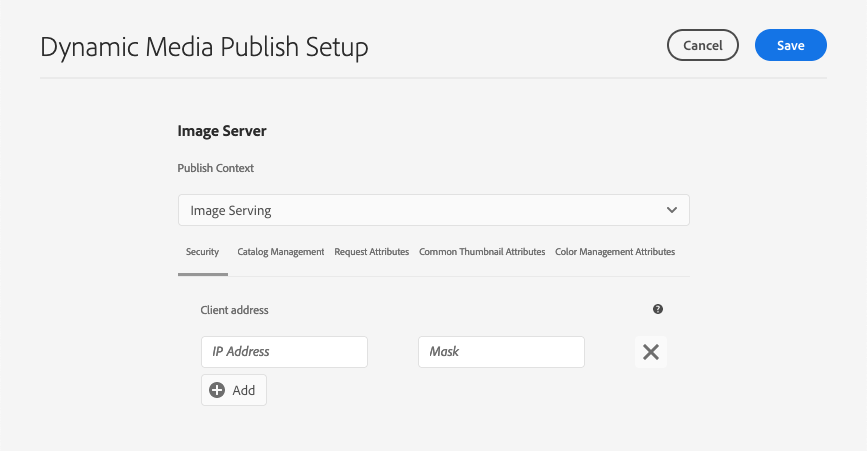
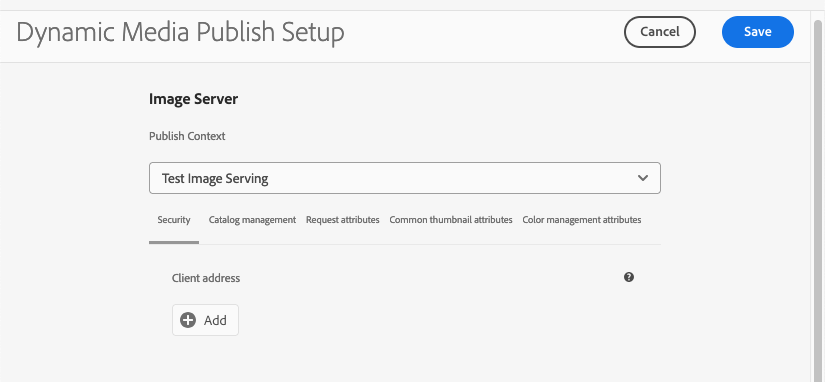
CQDOC-22241

diff --git a/help/assets/dm-publish-settings.md b/help/assets/dm-publish-settings.md
@@ -13,13 +13,13 @@ solution: Experience Manager, Experience Manager Assets
 ---
 # Configure Dynamic Media Publish Setup for Image Server
 
-Configuring Dynamic Media Publish Setup is available only if:
+Configuring Dynamic Media Publish Setup options are available only if the following are true:
 
 * You are running Dynamic Media in Scene7 mode. See [Enable Dynamic Media in Scene7 mode](/help/assets/config-dms7.md#enabling-dynamic-media-in-scene-mode).
-* You have an *existing* **[!UICONTROL Dynamic Media Configuration]** (in **[!UICONTROL Cloud Services]**) in Adobe Experience Manager 6.5.11 or above. See [Create a Dynamic Media Configuration in Cloud Services](/help/assets/config-dms7.md#configuring-dynamic-media-cloud-services).
+* You have an *existing* **[!UICONTROL Dynamic Media Configuration]** (in **[!UICONTROL Cloud Services]**) in Adobe Experience Manager 6.5.11 or higher. See [Create a Dynamic Media Configuration in Cloud Services](/help/assets/config-dms7.md#configuring-dynamic-media-cloud-services).
 * You are an Experience Manager system administrator with administrator privileges.
 
-Dynamic Media Publish Setup is intended for use by experienced web site developers and programmers. Adobe Dynamic Media recommends that users who change these publish settings be familiar with Adobe Dynamic Media, HTTP protocol standards and conventions, and basic imaging technology.
+Experienced website developers and programmers are intended to use Dynamic Media Publish Setup. Adobe Dynamic Media recommends that users who change publish settings be familiar with Adobe Dynamic Media, HTTP protocol standards and conventions, and basic imaging technology.
 
 The Dynamic Media Publish Setup page establishes default settings that determine how assets are delivered from Adobe Dynamic Media servers to web sites or applications. If no setting is specified, the Adobe Dynamic Media server delivers an asset according to a default setting that was configured on the Dynamic Media Publish Setup page.
 
@@ -32,10 +32,16 @@ See also [Optional - Setup and configuration of Dynamic Media - Scene7 mode sett
 **To configure Dynamic Media Publish Setup Image Server:**
 
 1. In Experience Manager Author mode, select the Experience Manager logo to access the global navigation console.
-1. In the left rail, select the Tools icon, then go to **[!UICONTROL Assets]** > **[!UICONTROL Dynamic Media Publish Setup]**.
-1. In the Image Server page, set your Image Server - publish context, and then use the five tabs to configure default publish settings.
+1. In the left rail, click the Tools icon, then go to **[!UICONTROL Assets]** > **[!UICONTROL Dynamic Media Publish Setup]**.
+1. In the Image Server page, from the drop-down list, choose your publish context to establish default settings for delivering images from Image Servers.
 
-   * [Image Server](#image-server)
+| Publish context | Description |
+| --- | --- |
+| Image Serving | Specifies the context for publish settings. |
+| Test Image Serving | Specifies the context for testing publish settings.<br>For new Dynamic Media accounts only, the default **[!UICONTROL Client address]** field is set to `127.0.0.1` automatically.<br>See [Test assets before making them public](#test-assets-before-making-public). |
+
+1. Use the five tabs to configure the default publish context settings.
+
    * [Security](#security-tab) tab
    * [Catalog Management](#catalog-management-tab) tab
    * [Request Attributes](#request-attributes-tab) tab
@@ -45,69 +51,66 @@ See also [Optional - Setup and configuration of Dynamic Media - Scene7 mode sett
    ![Dynamic Media Publish Setup page](/help/assets/assets-dm/dm-publish-setup.png)
    *Dynamic Media Publish Setup page, with the **[!UICONTROL Request Attributes]** tab selected.*<br><br>
 
-1. When you are finished, near the upper-right corner of the page, select **[!UICONTROL Save]**.
+1. When you are finished, near the upper-right corner of the page, click **[!UICONTROL Save]**.
 
-## Image Server {#image-server}
-
-The Image Server page establishes default settings for delivering images from image servers. Settings are available in five categories
-
-| Publish Context | Description |
-| --- | --- |
-| Image Serving | Specifies the context for publish settings. |
-| Test Image Serving | Specifies the context for testing publish settings.<br>For new Dynamic Media accounts only, the default **[!UICONTROL Client address]** field is set to `127.0.0.1` automatically.<br>See [Test assets before making them public](#test-assets-before-making-public). |
-
-### Security tab {#security-tab}
-
-**[!UICONTROL Client address]** - Lets you specify one or more IP addresses or IP address ranges. When specified, requests to this image catalog that originates from a client at an unlisted IP address is rejected. This rule applies both to delivery of images and rendered images.
-
-   ![Security tab](/help/assets/assets-dm/dm-ipallowlist.png)<br>*Security tab showing IP "allow" field.*
-
-### Catalog Management tab {#catalog-management-tab}
-
-**[!UICONTROL Rule set definition file path]** - Specifies the file that contains the rule set definitions for the image catalog.
-
-See also [RuleSetFile](https://experienceleague.adobe.com/docs/dynamic-media-developer-resources/image-serving-api/image-serving-api/attributes/r-rulesetfile.html) parameter in the Dynamic Media Viewers Reference Guide.
+## Security tab {#security-tab}
 
 >[!NOTE]
 >
->If your Dynamic Media Classic account already has a **[!UICONTROL Rule set definition file path]** selected (as set under **[!UICONTROL Setup]** > **[!UICONTROL Application]** > **[!UICONTROL Publish setup]**, under **[!UICONTROL Catalog Management]** group), your Dynamic Media account on Experience Manager fetches the file from Dynamic Media Classic. The file is then stored and made available in this field, when you open the **[!UICONTROL Dynamic Media Publish Setup]** page for the first time.
+>Security settings are not supported for the *Image Serving* publish context.
 
-### Request Attributes tab {#request-attributes-tab}
+When *Test Image Serving* is set as the publish context, you can set the following security setting:
+
+**[!UICONTROL Client address]** - Lets you specify one or more IP addresses or IP address ranges. When specified, requests to this image catalog that originates from a client at an unlisted IP address is rejected. This rule applies both to delivery of images and rendered images.
+
+   ![Security tab](/help/assets/assets-dm/dm-ipallowlist.png)<br>*The security tab showing IP "allow" field.*
+
+## Catalog management tab {#catalog-management-tab}
+
+**[!UICONTROL Rule set definition file path]** - Specifies the file that contains the rule set definitions for the image catalog.
+
+See also the [RuleSetFile](https://experienceleague.adobe.com/en/docs/dynamic-media-developer-resources/image-serving-api/image-serving-api/attributes/r-rulesetfile) parameter in the Dynamic Media Viewers Reference Guide.
+
+>[!NOTE]
+>
+>If your Dynamic Media Classic account has a **[!UICONTROL Rule set definition file path]** selected under **[!UICONTROL Setup]** > **[!UICONTROL Application]** > **[!UICONTROL Publish setup]**, Experience Manager fetches the file. Your Dynamic Media account retrieves the file from Dynamic Media Classic. The file is then stored and made available in this field, when you open the **[!UICONTROL Dynamic Media Publish Setup]** page for the first time.
+
+## Request attributes tab {#request-attributes-tab}
 
 These settings pertain to the default appearance of images.
 
 | Setting | Description |
 | --- | --- |
-| **[!UICONTROL Reply image size limit]** | Required.<br>For new Dynamic Media accounts only, the default size limit is automatically set to Width: `3000` and Height: `3000` for both **[!UICONTROL Image Serving]** and **[!UICONTROL Test Image Serving]**.<br>Specifies the maximum reply image width and height that is returned to the client. The server returns an error if a request causes a reply image whose width, or height, or both, is larger than this setting.<br>See also [MaxPix](https://experienceleague.adobe.com/docs/dynamic-media-developer-resources/image-serving-api/image-serving-api/attributes/r-maxpix.html) parameter in the Dynamic Media Viewers Reference Guide. |
-| **[!UICONTROL Request obfuscation mode]** | Enable if you want base64 encoding applied to valid requests.<br>See also [RequestObfuscation](https://experienceleague.adobe.com/docs/dynamic-media-developer-resources/image-serving-api/image-serving-api/attributes/r-requestobfuscation.html) parameter in the Dynamic Media Viewers Reference Guide. |
-| **[!UICONTROL Request locking mode]** | Enable if you want a simple hash lock included in requests.<br>See also [RequestLock](https://experienceleague.adobe.com/docs/dynamic-media-developer-resources/image-serving-api/image-serving-api/attributes/r-requestlock.html) parameter in the Dynamic Media Viewers Reference Guide. |
+| **[!UICONTROL Reply image size limit]** | Required.<br>For new Dynamic Media accounts only, the default size limits are automatically set to Width: `3000` and Height: `3000` for both **[!UICONTROL Image Serving]** and **[!UICONTROL Test Image Serving]**.<br>Specifies the maximum reply image width and height that is returned to the client. The server returns an error if a request causes a reply image whose width, or height, or both, is larger than this setting.<br>See also the [MaxPix](https://experienceleague.adobe.com/en/docs/dynamic-media-developer-resources/image-serving-api/image-serving-api/attributes/r-maxpix) parameter in the Dynamic Media Viewers Reference Guide. |
+| **[!UICONTROL Request obfuscation mode]** | Enable if you want base64 encoding applied to valid requests.<br>See also the [RequestObfuscation](https://experienceleague.adobe.com/en/docs/dynamic-media-developer-resources/image-serving-api/image-serving-api/attributes/r-requestobfuscation) parameter in the Dynamic Media Viewers Reference Guide. |
+| **[!UICONTROL Request locking mode]** | Enable if you want a simple hash lock included in requests.<br>See also the [RequestLock](https://experienceleague.adobe.com/en/docs/dynamic-media-developer-resources/image-serving-api/image-serving-api/attributes/r-requestlock) parameter in the Dynamic Media Viewers Reference Guide. |
 | **[!UICONTROL Default Request Attributes]** | |
-| **[!UICONTROL Default image file suffix]** | Required.<br>Default data file extension that is appended to the catalog Path and MaskPath field values if the path does not include a file suffix.<br>See also [DefaultExt](https://experienceleague.adobe.com/docs/dynamic-media-developer-resources/image-serving-api/image-serving-api/attributes/r-defaultext.html) parameter in the Dynamic Media Viewers Reference Guide. |
-| **[!UICONTROL Default font face name]** | Specifies which font is used if no font is provided by a text layer request. If specified, it must be a valid font name value in the font map of this image catalog or in the font map of the default catalog.<br>See also [DefaultFont](https://experienceleague.adobe.com/docs/dynamic-media-developer-resources/image-serving-api/image-serving-api/attributes/r-defaultfont.html) parameter in the Dynamic Media Viewers Reference Guide. |
-| **[!UICONTROL Default image]** | Provides a default image to return in response to a request where the requested image is not found.<br>See also [DefaultImage](https://experienceleague.adobe.com/docs/dynamic-media-developer-resources/image-serving-api/image-serving-api/attributes/r-is-cat-defaultimage.html) parameter in the Dynamic Media Viewers Reference Guide.<br>**NOTE**: If your Dynamic Media Classic account already has a **[!UICONTROL Default image]** selected (as set under **[!UICONTROL Setup]** > **[!UICONTROL Application]** > **[!UICONTROL Publish setup]**, under **[!UICONTROL Default Request Attributes]** group), your Dynamic Media account on Experience Manager fetches the file from Dynamic Media Classic. The file is then stored and made available in this field when you open the **[!UICONTROL Dynamic Media Publish Setup]** page for the first time.|
-| **[!UICONTROL Default image mode]** | When the slider box is enabled (slider on the right), the **[!UICONTROL Default image]** replaces each missing layer in the source image with the default image and returns the composite as usual. When the slider box is disabled (slider on the left), the default image replaces the entire composite image, even if the missing image is just one of several layers.<br>See also [DefaultImageMode](https://experienceleague.adobe.com/docs/dynamic-media-developer-resources/image-serving-api/image-serving-api/attributes/r-defaultimagemode.html) parameter in the Dynamic Media Viewers Reference Guide. |
-| **[!UICONTROL Default view size]** | Required.<br>For new Dynamic Media accounts only, the default view size is automatically set to Width: `1280` and Height: `1280` for both **[!UICONTROL Image Serving]** and **[!UICONTROL Test Image Serving]**.<br>The server constrains reply images to be no larger than this width and height, if the request does not specify the view size explicitly using `wid=`, `hei=`, or `scl=`.<br>See also [DefaultPix](https://experienceleague.adobe.com/docs/dynamic-media-developer-resources/image-serving-api/image-serving-api/attributes/r-defaultpix.html) parameter in the Dynamic Media Viewers Reference Guide. |
-| **[!UICONTROL Default thumbnail size]** | Required.<br>Used instead of attribute **[!UICONTROL Default view size]** for thumbnail requests (`req=tmb`). The server constrains reply images to be no larger that this width and height, if a thumbnail request (`req=tmb`) does not specify the size explicitly using `wid=`, `hei=`, or `scl=`.<br>See also [DefaultThumbPix](https://experienceleague.adobe.com/docs/dynamic-media-developer-resources/image-serving-api/image-serving-api/attributes/r-defaultthumbpix.html) parameter in the Dynamic Media Viewers Reference Guide. |
-| **[!UICONTROL Default background color]** | Specifies the RGB value used to fill in any area of a reply image that does not contain actual image data.<br>See also [BkgColor](https://experienceleague.adobe.com/docs/dynamic-media-developer-resources/image-serving-api/image-serving-api/attributes/r-bkgcolor.html) parameter in the Dynamic Media Viewers Reference Guide. |
+| **[!UICONTROL Default image file suffix]** | Required.<br>Default data file extension that is appended to the catalog Path and MaskPath field values if the path does not include a file suffix.<br>See also the [DefaultExt](https://experienceleague.adobe.com/en/docs/dynamic-media-developer-resources/image-serving-api/image-serving-api/attributes/r-defaultext) parameter in the Dynamic Media Viewers Reference Guide. |
+| **[!UICONTROL Default font face name]** | Specifies which font is used if no font is provided by a text layer request. If specified, it must be a valid font name value in this image catalog's font map or the default catalog's font map.<br>See also the [DefaultFont](https://experienceleague.adobe.com/en/docs/dynamic-media-developer-resources/image-serving-api/image-serving-api/attributes/r-defaultfont) parameter in the Dynamic Media Viewers Reference Guide. |
+| **[!UICONTROL Default image]** | A default image is returned in response to a request where the requested image is not found.<br>See also the [DefaultImage](https://experienceleague.adobe.com/en/docs/dynamic-media-developer-resources/image-serving-api/image-serving-api/attributes/r-is-cat-defaultimage) parameter in the Dynamic Media Viewers Reference Guide.<br>**NOTE**: If your Dynamic Media Classic account has a **[!UICONTROL Default image]** selected under **[!UICONTROL Setup]** > **[!UICONTROL Application]** > **[!UICONTROL Publish setup]**, in the **[!UICONTROL Default Request Attributes]** group, Experience Manager fetches the file. The file is then stored and made available in this field when you open the **[!UICONTROL Dynamic Media Publish Setup]** page for the first time.|
+| **[!UICONTROL Default image mode]** | When the slider box is enabled (slider on the right), the **[!UICONTROL Default image]** replaces each missing layer in the source image with the default image and returns the composite as usual. When the slider box is disabled (slider on the left), the default image replaces the entire composite image, even if the missing image is just one of several layers.<br>See also the [DefaultImageMode](https://experienceleague.adobe.com/en/docs/dynamic-media-developer-resources/image-serving-api/image-serving-api/attributes/r-defaultimagemode) parameter in the Dynamic Media Viewers Reference Guide. |
+| **[!UICONTROL Default view size]** | Required.<br>For new Dynamic Media accounts only, the default view sizes are automatically set to Width: `1280` and Height: `1280` for both **[!UICONTROL Image Serving]** and **[!UICONTROL Test Image Serving]**.<br>The server constrains reply images to be no larger than this width and height, if the request does not specify the view size explicitly using `wid=`, `hei=`, or `scl=`.<br>See also the [DefaultPix](https://experienceleague.adobe.com/en/docs/dynamic-media-developer-resources/image-serving-api/image-serving-api/attributes/r-defaultpix) parameter in the Dynamic Media Viewers Reference Guide. |
+| **[!UICONTROL Default thumbnail size]** | Required.<br>Used instead of attribute **[!UICONTROL Default view size]** for thumbnail requests (`req=tmb`). The server constrains reply images to be no larger that this width and height, if a thumbnail request (`req=tmb`) does not specify the size explicitly using `wid=`, `hei=`, or `scl=`.<br>See also the [DefaultThumbPix](https://experienceleague.adobe.com/en/docs/dynamic-media-developer-resources/image-serving-api/image-serving-api/attributes/r-defaultthumbpix) parameter in the Dynamic Media Viewers Reference Guide. |
+| **[!UICONTROL Default background color]** | Specifies the RGB value used to fill in any area of a reply image that does not contain actual image data.<br>See also the [BkgColor](https://experienceleague.adobe.com/en/docs/dynamic-media-developer-resources/image-serving-api/image-serving-api/attributes/r-bkgcolor) parameter in the Dynamic Media Viewers Reference Guide. |
 | **[!UICONTROL JPEG Encoding Attributes]** |  |
-| **[!UICONTROL Quality]** | <br>Specifies the default attributes for JPEG reply images.<br>For new Dynamic Media accounts only, the **[!UICONTROL Quality]** default value is automatically set to `80` for both **[!UICONTROL Image Serving]** and **[!UICONTROL Test Image Serving]**.<br>This field is defined in the range of 1 - 100.<br>See also [JpegQuality](https://experienceleague.adobe.com/docs/dynamic-media-developer-resources/image-serving-api/image-serving-api/attributes/r-jpegquality.html) parameter in the Dynamic Media Viewers Reference Guide. |
-| **[!UICONTROL Chromatically downsampling]** | Enable or disable chromatically downsampling which is employed by JPEG encoders. |
-| **[!UICONTROL Default resampling mode]** | Specifies the default resampling and interpolation attributes to use for scaling image data. Use when `resMode` is not specified in a request.<br>For new Dynamic Media accounts only, the default resampling mode is automatically set to `Sharp2` for both **[!UICONTROL Image Serving]** and **[!UICONTROL Test Image Serving]**.<br>See also [ResMode](https://experienceleague.adobe.com/docs/dynamic-media-developer-resources/image-serving-api/image-serving-api/attributes/r-is-cat-resmode.html) parameter in the Dynamic Media Viewers Reference Guide. |
+| **[!UICONTROL Quality]** | <br>Specifies the default attributes for JPEG reply images.<br>For new Dynamic Media accounts only, the **[!UICONTROL Quality]** default values are automatically set to `80` for both **[!UICONTROL Image Serving]** and **[!UICONTROL Test Image Serving]**.<br>This field is defined in the range of 1 - 100.<br>See also the [JpegQuality](https://experienceleague.adobe.com/en/docs/dynamic-media-developer-resources/image-serving-api/image-serving-api/attributes/r-jpegquality) parameter in the Dynamic Media Viewers Reference Guide. |
+| **[!UICONTROL Chromatically downsampling]** | Enable or disable chromatically downsampling, which JPEG encoders employ. |
+| **[!UICONTROL Default resampling mode]** | Specifies the default resampling and interpolation attributes to use for scaling image data. Use when `resMode` is not specified in a request.<br>For new Dynamic Media accounts only, the default resampling modes are automatically set to `Sharp2` for both **[!UICONTROL Image Serving]** and **[!UICONTROL Test Image Serving]**.<br>See also the [ResMode](https://experienceleague.adobe.com/en/docs/dynamic-media-developer-resources/image-serving-api/image-serving-api/attributes/r-is-cat-resmode) parameter in the Dynamic Media Viewers Reference Guide. |
 
-### Common Thumbnail Attributes tab {#common-thumbnail-attributes-tab}
+## Common thumbnail attributes tab {#common-thumbnail-attributes-tab}
 
 These settings pertain to the default appearance and alignment of thumbnail images.
 
 | Setting | Description |
 | --- | --- |
-| **[!UICONTROL Default background color for thumbnail]** | Specifies the RGB value used to fill the area of an output thumbnail image that does not contain actual image data. Used only for thumbnail requests (`req=tmb`) and when **[!UICONTROL Default Thumbnail Type]** setting is set to **[!UICONTROL Fit]** or **[!UICONTROL Texture]**.<br>See also [ThumbBkgColor](https://experienceleague.adobe.com/docs/dynamic-media-developer-resources/image-serving-api/image-serving-api/attributes/r-thumbbkgcolor.html) parameter in the Dynamic Media Viewers Reference Guide. |
-| **[!UICONTROL Horizontal alignment]** | Specifies the horizontal alignment of the thumbnail image in the reply image rectangle specified by `wid=` and `hei=` values.<br>Used only for thumbnail requests (`req=tmb`) and when **[!UICONTROL Default Thumbnail Type]** setting is set to **[!UICONTROL Fit]**.<br>There are three horizontal alignments to choose from: **[!UICONTROL Center alignment]**, **[!UICONTROL Left alignment]**, and **[!UICONTROL Right alignment]**.<br>See also [ThumbHorizAlign](https://experienceleague.adobe.com/docs/dynamic-media-developer-resources/image-serving-api/image-serving-api/attributes/r-thumbhorizalign.html) parameter in the Dynamic Media Viewers Reference Guide. |
-| **[!UICONTROL Vertical alignment]** | Specifies the vertical alignment of the thumbnail image in the reply image rectangle specified by `wid=` and `hei=` values. Used only for thumbnail requests (`req=tmb`) and when **[!UICONTROL Default Thumbnail Type]** setting is set to **[!UICONTROL Fit]**.<br>There are three vertical alignments to choose from: **[!UICONTROL Top alignment]**, **[!UICONTROL Center alignment]**, and **[!UICONTROL Bottom alignment]**.<br>See also [ThumbVertAlign](https://experienceleague.adobe.com/docs/dynamic-media-developer-resources/image-serving-api/image-serving-api/attributes/r-thumbvertalign.html) parameter in the Dynamic Media Viewers Reference Guide. |
-| **[!UICONTROL Default cache time to live]** | Provides a default expiration interval in hours in case a particular catalog record does not contain a valid catalog Expiration value. Set to `-1` to mark as never expire. <br>See also [Expiration](https://experienceleague.adobe.com/docs/dynamic-media-developer-resources/image-serving-api/image-serving-api/attributes/r-expiration.html) parameter in the Dynamic Media Viewers Reference Guide. |
-| **[!UICONTROL Default thumbnail type]** | Provides a default for the thumbnail type in case a particular catalog record does not contain a valid catalog ThumbType value. Used only for thumbnail requests (`req=tmb`).<br>There are three thumbnail types to choose from: **[!UICONTROL Crop]**, **[!UICONTROL Fit]**, and **[!UICONTROL Texture]**.<br>See also [ThumbType](https://experienceleague.adobe.com/docs/dynamic-media-developer-resources/image-serving-api/image-serving-api/attributes/r-thumbtype.html) parameter in the Dynamic Media Viewers Reference Guide. |
-| **[!UICONTROL Default thumbnail resolution]** | Provides a default for the thumbnail object resolution in case a particular catalog record does not contain a valid catalog ThumbRes value. Used only for thumbnail requests (`req=tmb`) and when the **[!UICONTROL Default thumbnail type]** setting is set to **[!UICONTROL Texture]**.<br>See also [ThumbRes](https://experienceleague.adobe.com/docs/dynamic-media-developer-resources/image-serving-api/image-serving-api/attributes/r-thumbres.html) parameter in the Dynamic Media Viewers Reference Guide. |
+| **[!UICONTROL Default background color for thumbnail]** | Specifies the RGB value used to fill the area of an output thumbnail image that does not contain actual image data. Used only for thumbnail requests (`req=tmb`) and when **[!UICONTROL Default Thumbnail Type]** setting is set to **[!UICONTROL Fit]** or **[!UICONTROL Texture]**.<br>See also the [ThumbBkgColor](https://experienceleague.adobe.com/en/docs/dynamic-media-developer-resources/image-serving-api/image-serving-api/attributes/r-thumbbkgcolor) parameter in the Dynamic Media Viewers Reference Guide. |
+| **[!UICONTROL Horizontal alignment]** | Specifies the horizontal alignment of the thumbnail image in the reply image rectangle specified by `wid=` and `hei=` values.<br>Used only for thumbnail requests (`req=tmb`) and when **[!UICONTROL Default Thumbnail Type]** setting is set to **[!UICONTROL Fit]**.<br>There are three horizontal alignments to choose from: **[!UICONTROL Center alignment]**, **[!UICONTROL Left alignment]**, and **[!UICONTROL Right alignment]**.<br>See also the [ThumbHorizAlign](https://experienceleague.adobe.com/en/docs/dynamic-media-developer-resources/image-serving-api/image-serving-api/attributes/r-thumbhorizalign) parameter in the Dynamic Media Viewers Reference Guide. |
+| **[!UICONTROL Vertical alignment]** | Specifies the vertical alignment of the thumbnail image in the reply image rectangle specified by `wid=` and `hei=` values. Used only for thumbnail requests (`req=tmb`) and when **[!UICONTROL Default Thumbnail Type]** setting is set to **[!UICONTROL Fit]**.<br>There are three vertical alignments to choose from: **[!UICONTROL Top alignment]**, **[!UICONTROL Center alignment]**, and **[!UICONTROL Bottom alignment]**.<br>See also the [ThumbVertAlign](https://experienceleague.adobe.com/en/docs/dynamic-media-developer-resources/image-serving-api/image-serving-api/attributes/r-thumbvertalign) parameter in the Dynamic Media Viewers Reference Guide. |
+| **[!UICONTROL Default cache time to live]** | A default expiration interval is given in hours in case a particular catalog record does not contain a valid catalog Expiration value. Set to `-1` to mark as never expire. <br>See also the [Expiration](https://experienceleague.adobe.com/en/docs/dynamic-media-developer-resources/image-serving-api/image-serving-api/attributes/r-expiration) parameter in the Dynamic Media Viewers Reference Guide. |
+| **[!UICONTROL Default thumbnail type]** | A default for the thumbnail type is given in case a particular catalog record does not contain a valid catalog ThumbType value. Used only for thumbnail requests (`req=tmb`).<br>There are three thumbnail types to choose from: **[!UICONTROL Crop]**, **[!UICONTROL Fit]**, and **[!UICONTROL Texture]**.<br>See also the [ThumbType](https://experienceleague.adobe.com/en/docs/dynamic-media-developer-resources/image-serving-api/image-serving-api/attributes/r-thumbtype) parameter in the Dynamic Media Viewers Reference Guide. |
+| **[!UICONTROL Default thumbnail resolution]** | A default for the thumbnail object resolution is given in case a particular catalog record does not contain a valid catalog ThumbRes value. Used only for thumbnail requests (`req=tmb`) and when the **[!UICONTROL Default thumbnail type]** setting is set to **[!UICONTROL Texture]**.<br>See also the [ThumbRes](https://experienceleague.adobe.com/en/docs/dynamic-media-developer-resources/image-serving-api/image-serving-api/attributes/r-thumbres) parameter in the Dynamic Media Viewers Reference Guide. |
 
-### Color Management Attributes tab {#color-management-attributes-tab}
+## Color management attributes tab {#color-management-attributes-tab}
 
 These settings determine which ICC color profiles are used for images.
 
@@ -115,22 +118,22 @@ These settings determine which ICC color profiles are used for images.
 A color conversion rendering intent permits overriding of the default rendering intent of the working profiles to determine how the source colors are adjusted. Used when:
 
 1. One of the default ICC profiles is the target color space of a color conversion.
-1. An output device (printer or monitor) is characterized by this profile.
+1. This profile characterizes an output device, such as a printer or monitor.
 1. And, the specified rendering intent is valid for this profile.
 
 Different rendering intents use different rules to determine how the source colors are adjusted.
 
-See also [IccRenderIntent](https://experienceleague.adobe.com/docs/dynamic-media-developer-resources/image-serving-api/image-serving-api/attributes/r-iccrenderintent.html) parameter in the Dynamic Media Viewers Reference Guide.
+See also the [IccRenderIntent](https://experienceleague.adobe.com/en/docs/dynamic-media-developer-resources/image-serving-api/image-serving-api/attributes/r-iccrenderintent) parameter in the Dynamic Media Viewers Reference Guide.
 
 >[!NOTE]
 >
->In general, it is best to use the default rendering intent for the selected color setting, which has been tested by Adobe to meet industry standards. For example, if you choose a color setting for North America or Europe, the default color conversion rendering intent is **[!UICONTROL Relative Colorimetric]**. If you choose a color setting for Japan, the default color conversion rendering intent is **[!UICONTROL Perceptual]**.
+In general, use the default rendering intent for the selected color setting, which Adobe has tested to meet industry standards. For example, if you choose a color setting for North America or Europe, the default color conversion rendering intent is **[!UICONTROL Relative Colorimetric]**. If you choose a color setting for Japan, the default color conversion rendering intent is **[!UICONTROL Perceptual]**.
 
 | Setting | Characteristics |
 | --- | --- |
-| **[!UICONTROL CMYK default color space]** | Specifies the name of the ICC color profile to use as a working profile for CMYK data. If **[!UICONTROL None Specified]** is chosen, color management is disabled for this image catalog when CMYK source images are involved. All CMYK working spaces are device-dependent, meaning that they are based on actual ink and paper combinations. The CMYK working spaces Adobe supplies are based on standard commercial print conditions.<br> See also [IccProfileCMYK](https://experienceleague.adobe.com/docs/dynamic-media-developer-resources/image-serving-api/image-serving-api/attributes/r-iccprofilecmyk.html) parameter in the Dynamic Media Viewers Reference Guide. |
-| **[!UICONTROL Gray-Scale default color space]** | Specifies the name of the ICC color profile to use as a working profile for gray-scale data. If **[!UICONTROL None Specified]** is chosen, color management is disabled for this image catalog when gray-scale source images are involved.<br>See also [IccProfileGray](https://experienceleague.adobe.com/docs/dynamic-media-developer-resources/image-serving-api/image-serving-api/attributes/r-iccprofilegray.html) parameter in the Dynamic Media Viewers Reference Guide. |
-| **[!UICONTROL RGB default color space]** | Specifies the name of the ICC color profile to use as a working profile for RGB data. If **[!UICONTROL None Specified]** is chosen, color management is disabled for this image catalog when RGB sources images are involved. In general, it is best to choose **[!UICONTROL Adobe RGB]** or **[!UICONTROL sRGB]**, rather than the profile for a specific device (such as a monitor profile). **[!UICONTROL sRGB]** is recommended when you prepare images for the web or mobile devices, because it defines the color space of the standard monitor used to view images on the web. **[!UICONTROL sRGB]** is also a good choice when you work with images from consumer-level digital cameras, because most of these cameras use sRGB as their default color space.<br>See also [IccProfileRBG](https://experienceleague.adobe.com/docs/dynamic-media-developer-resources/image-serving-api/image-serving-api/attributes/r-iccprofilergb.html) parameter in the Dynamic Media Viewers Reference Guide. |
+| **[!UICONTROL CMYK default color space]** | Specifies the name of the ICC color profile to use as a working profile for CMYK data. If **[!UICONTROL None Specified]** is chosen, color management is disabled for this image catalog when CMYK source images are involved. All CMYK working spaces are device-dependent, meaning that they are based on actual ink and paper combinations. The CMYK working spaces Adobe supplies are based on standard commercial print conditions.<br> See also [IccProfileCMYK](https://experienceleague.adobe.com/en/docs/dynamic-media-developer-resources/image-serving-api/image-serving-api/attributes/r-iccprofilecmyk) parameter in the Dynamic Media Viewers Reference Guide. |
+| **[!UICONTROL Gray-Scale default color space]** | Specifies the name of the ICC color profile to use as a working profile for gray-scale data. If **[!UICONTROL None Specified]** is chosen, color management is disabled for this image catalog when gray-scale source images are involved.<br>See also the [IccProfileGray](https://experienceleague.adobe.com/en/docs/dynamic-media-developer-resources/image-serving-api/image-serving-api/attributes/r-iccprofilegray) parameter in the Dynamic Media Viewers Reference Guide. |
+| **[!UICONTROL RGB default color space]** | Specifies the name of the ICC color profile to use as a working profile for RGB data. If **[!UICONTROL None Specified]** is chosen, color management is disabled for this image catalog when RGB sources images are involved. In general, it is best to choose **[!UICONTROL Adobe RGB]** or **[!UICONTROL sRGB]**, rather than the profile for a specific device (such as a monitor profile). **[!UICONTROL sRGB]** is recommended when you prepare images for the web or mobile devices, because it defines the color space of the standard monitor used to view images on the web. **[!UICONTROL sRGB]** is also a good choice when you work with images from consumer-level digital cameras, because most of these cameras use sRGB as their default color space.<br>See also the [IccProfileRBG](https://experienceleague.adobe.com/en/docs/dynamic-media-developer-resources/image-serving-api/image-serving-api/attributes/r-iccprofilergb) parameter in the Dynamic Media Viewers Reference Guide. |
 | **[!UICONTROL Color conversion rendering intent]** | **[!UICONTROL Perceptual]** &ndash; Aims to preserve the visual relationship between colors so it's perceived as natural to the human eye, even though the color values themselves may change. This intent is suitable for photographic images with lots of out-of-gamut colors. This setting is the standard rendering intent for the Japanese printing industry. |
 |  | **[!UICONTROL Relative Colorimetric]** - Compares the extreme highlight of the source color space to that of the destination color space and shifts all colors accordingly. Out-of-gamut colors are shifted to the closest reproducible color in the destination color space. Relative Colorimetric preserves more of the original colors in an image than Perceptual. This setting is the standard rendering intent for printing in North America and Europe. |
 |  | **[!UICONTROL Saturation]** &ndash; Tries to produce vivid colors in an image at the expense of color accuracy. This rendering intent is suitable for business graphics like graphs or charts, where bright saturated colors are more important than the exact relationship between colors. |
@@ -146,7 +149,7 @@ If desired, create a staging environment rather than making assets publicly avai
 
 * Preview websites before public launch (staging website).
 * Serve assets that require restricted access, such as eCatalogs that show prices in a B2B web application.
-* Use assets behind a firewall as part of product information management system, customer service application, training site, and so on.
+* Use assets behind a firewall as part of a product information management system, customer service application, training site, and so on.
 
 >[!NOTE]
 >
@@ -162,7 +165,7 @@ With Secure Testing, Adobe Dynamic Media establishes a dedicated Image Server fo
 
 Because the location of the original request must be confirmed, the traffic of the Secure Testing service is not routed through a content distribution network like public Dynamic Media Image Server traffic. Requests to the Secure Testing service have a slightly higher latency compared to the public Dynamic Media Image Servers.
 
-Unpublished assets are immediately available from the Secure Testing services, without the need to publish. In this way, you can run a preview before assets are published to their public facing image server.
+Unpublished assets are immediately available from the Secure Testing services, without the need to publish. In this way, you can run a preview before assets are published to their public facing Image Server.
 
 >[!NOTE]
 >
@@ -172,7 +175,7 @@ Secure Testing services currently support the following asset types and function
 
 * Images.
 * Vignettes (Render Server requests).
-* Render Server requests (supported, but must be requested explicitly by customer).
+* Customers must explicitly request Render Server support, which is available.
 * Sets, including image sets, eCatalog, render sets, and media sets.
 * Standard Adobe Dynamic Media rich media viewers.
 * Adobe Dynamic Media OnDemand JSP pages.
@@ -197,7 +200,7 @@ The following asset types and functionalities are currently not supported:
 
 ### Test the Secure Testing service {#test-secure-testing-service}
 
-To ensure that Secure Testing service works as expected, do the following:
+To ensure that the Secure Testing service works as expected, do the following:
 
 #### Prepare your account
 
